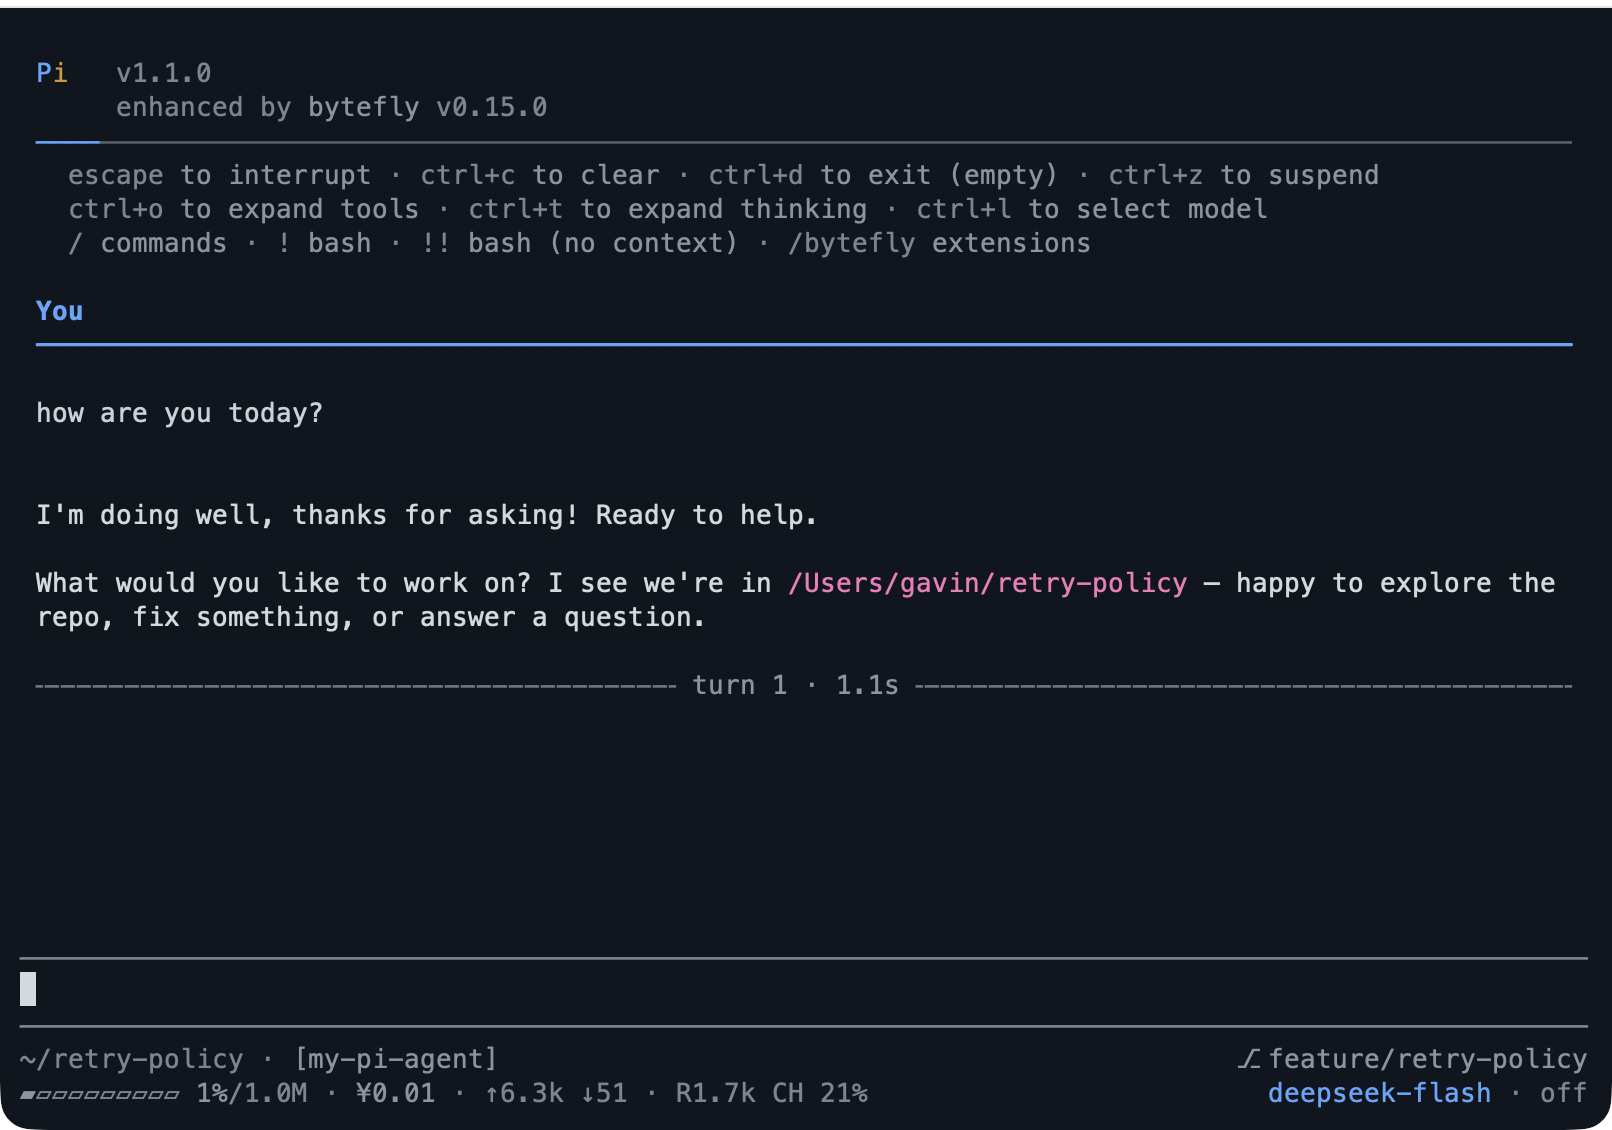
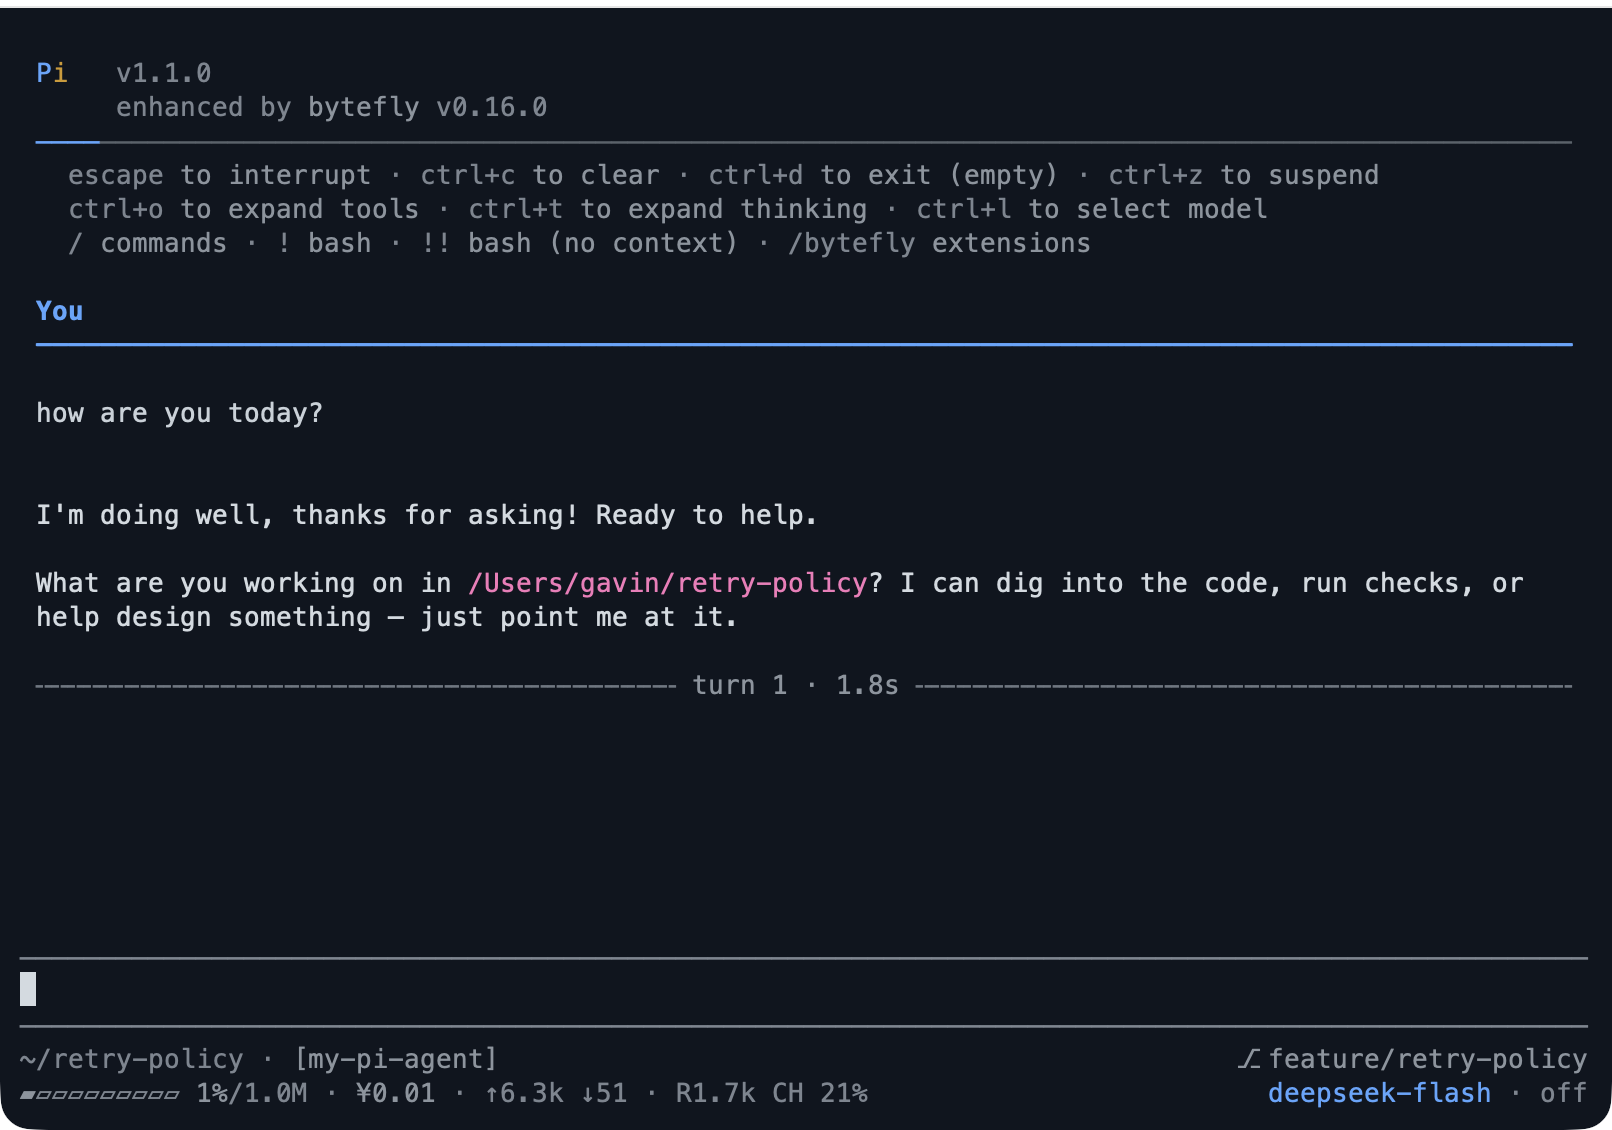
chore(release): 0.16.0
The [Unreleased] window since v0.15.0 holds 73 commits; this moves its
entries under the dated heading, bumps the package and the install pin, and
redraws the hero so its header names 0.16.0.

Changed region(s): [[0.031, 0.4956, 0.9615, 0.5575]]

diff --git a/CHANGELOG.md b/CHANGELOG.md
@@ -6,6 +6,8 @@ to [Semantic Versioning](https://semver.org/spec/v2.0.0.html).
 
 ## [Unreleased]
 
+## [0.16.0] - 2026-10-20
+
 ### Added
 
 - `file-browse`: the sidebar tree gains a `fold all` / `expand all` control and
@@ -2501,7 +2503,8 @@ one installable Pi package.
   the worktree it ran in, and the rewind end-to-end test seeds its snapshot with
   the native repo root.
 
-[Unreleased]: https://github.com/gavin-hu/my-pi-agent/compare/v0.15.0...HEAD
+[Unreleased]: https://github.com/gavin-hu/my-pi-agent/compare/v0.16.0...HEAD
+[0.16.0]: https://github.com/gavin-hu/my-pi-agent/releases/tag/v0.16.0
 [0.15.0]: https://github.com/gavin-hu/my-pi-agent/releases/tag/v0.15.0
 [0.14.0]: https://github.com/gavin-hu/my-pi-agent/releases/tag/v0.14.0
 [0.13.1]: https://github.com/gavin-hu/my-pi-agent/releases/tag/v0.13.1

diff --git a/docs/user-guide/getting-started.md b/docs/user-guide/getting-started.md
@@ -55,7 +55,7 @@ package outside your source tree.
    teammates:
 
    ```bash
-   pi install git:github.com/gavin-hu/my-pi-agent@v0.15.0
+   pi install git:github.com/gavin-hu/my-pi-agent@v0.16.0
    ```
 
    npm versions and git tags name the same release. The pin above matches the
